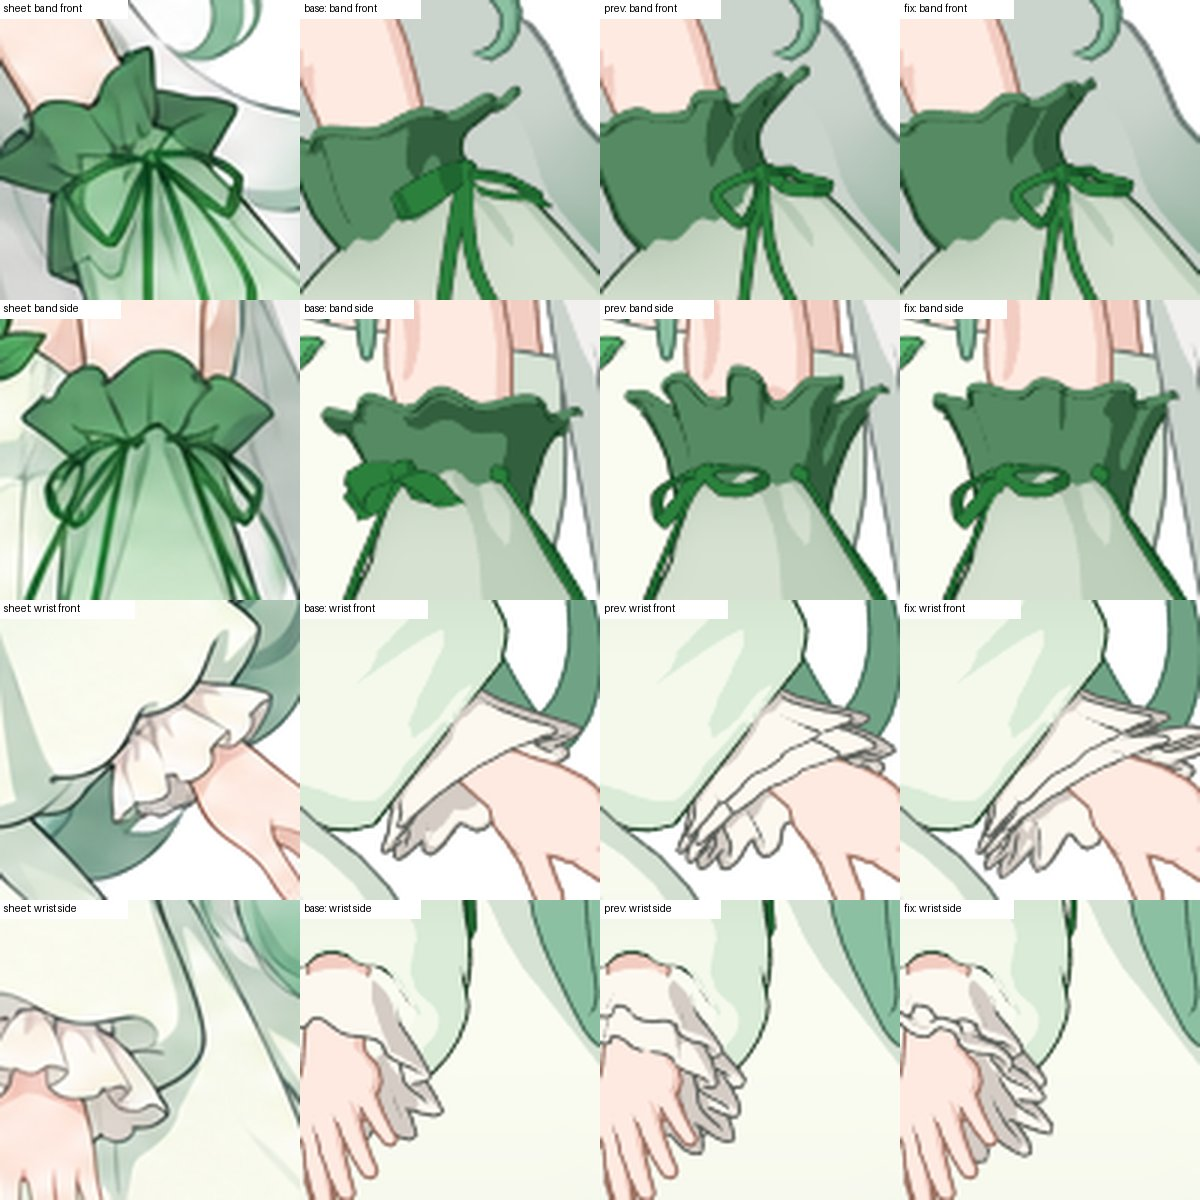
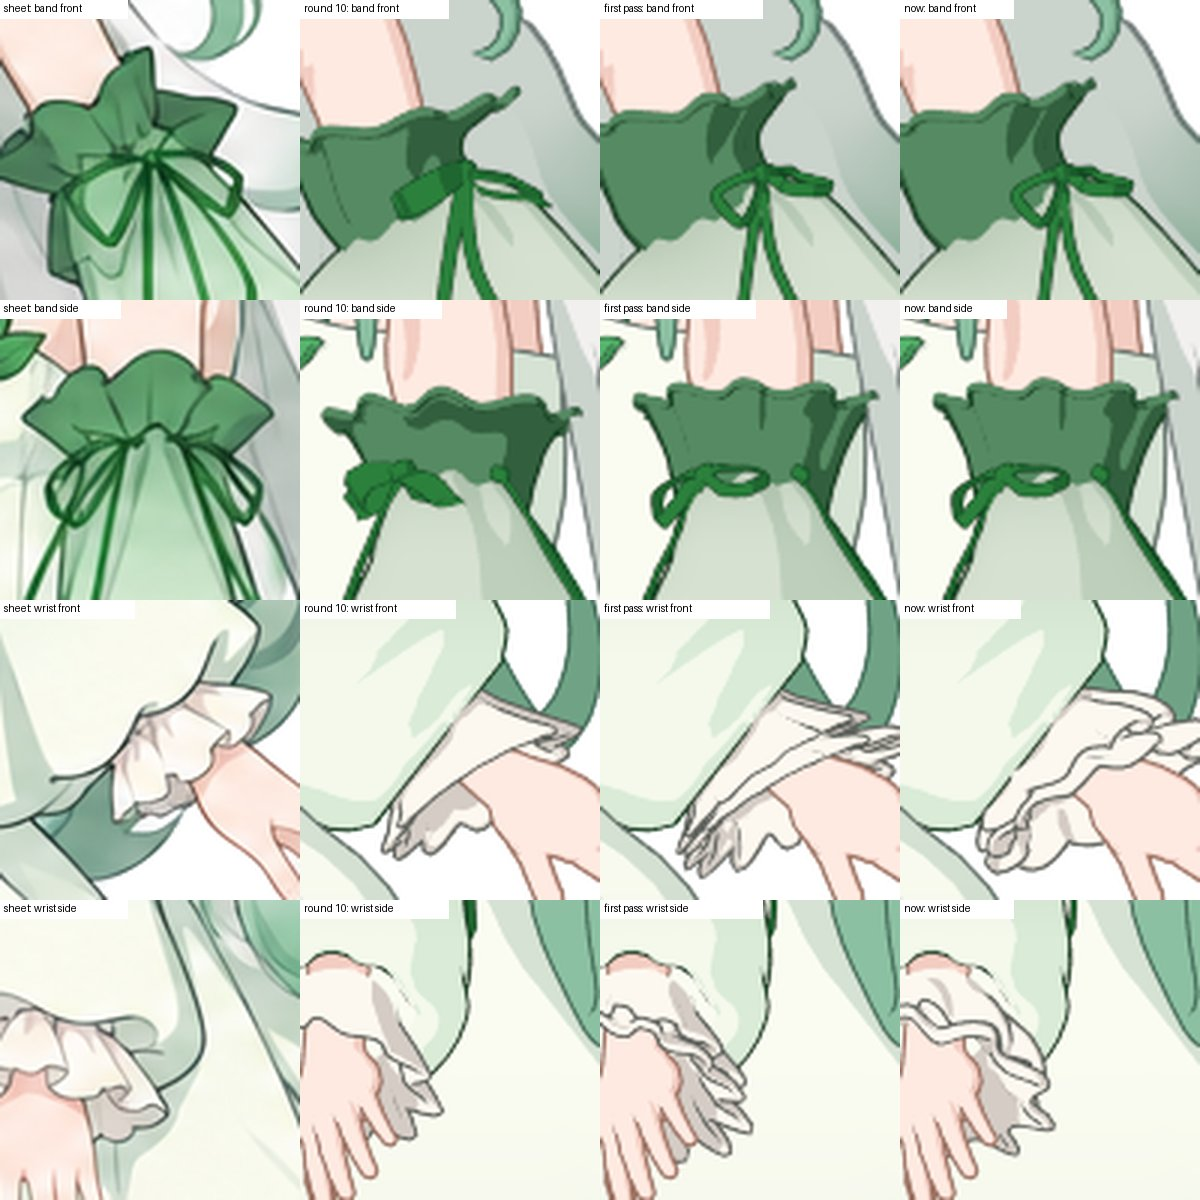
docs: r11 sleeves HD review fix of the wrist ruffle, 4x before/after crops, panels and numbers

diff --git a/docs/pr/r11-sleeves/README.md b/docs/pr/r11-sleeves/README.md
@@ -5,15 +5,15 @@ Files changed:
 - `levi/rig.py`: a small shared hook, see "Rig fits".
 
 Face counts:
-- Sleeves: 8,664 → 16,952 (budget 18,000).
-- Model: 107,968 → 116,256.
+- Sleeves: 8,664 → 17,032 (budget 18,000).
+- Model: 107,968 → 116,336.
 
 The source is the clothes-detail review (round 11 analysis). It found three problems:
 - The band bow read as a green brick of slab loops.
 - The band frill read as a low cup.
 - The wrist ruffle read as a thin grey collar from the front and as an 11-point star end-on.
 
-A first pass fixed the construction. An independent review then found that it had moved the rig and added kinks, outline breaks and a cuff that lay on the hand. This version fixes those findings.
+A first pass fixed the construction. An independent review then found that it had moved the rig and added kinks, outline breaks and a cuff that lay on the hand; a second pass fixed those. The owner then looked at the dressed model at 4× and found that from the front the wrist ruffle read as a fan of sharp triangular shards, worst in clay (HD review, p1). This version rebuilds the ruffle's shape for that (see "HD review: the wrist ruffle").
 
 ## What the part does now
 
@@ -38,32 +38,53 @@ A first pass fixed the construction. An independent review then found that it ha
 - The flutes have rounded crests (`RUFFLE_ROUND` 0.5).
 - The rise along the frill is now a plain wave of the *slid* angle (`_frill_ring`):
   - Before, it was computed at the unslid angle, so the whole rise crowded into the steep flanks. The rim stood in square steps (a crown in the side view) with an S-hook in the rolled rim.
-  - The rim's largest turn at one vertex is now 33° (round 10: 44°, previous: 65°). The 90th percentile is 24° (37° / 41°).
-  - The rim's height range is 6.6 mm (round 10: 7.0, previous: 12.5). The side view shows round tulip petals.
+  - The rim's largest turn at one vertex is now 33° (round 10: 44°, first pass: 65°). The 90th percentile is 24° (37° / 41°).
+  - The rim's height range is 6.6 mm (round 10: 7.0, first pass: 12.5). The side view shows round tulip petals.
 - Outer side (`RUFFLE_OUTER_FLAT` 0.7): the flutes' depth, rise and curl are reduced toward the rim, not just the radius. The front view now sees one broad rise there, instead of three stacked blade-like fins.
 - Inner side (`RUFFLE_INNER_FLAT`): the flutes lie flatter against the chest. At rest no frill vertex is inside the body; the closest is 6.1 mm away.
 - Shading uses the normals of a copy with the flutes 45% as deep.
 - The shape-master girth is sampled as before.
 
 **Wrist ruffle (`_cuff_rings`, `CUFF_TIERS`)**
-- Two tiers:
-  - `sleeve_cuff` is the upper tier, 22 px long.
-  - `sleeve_cuff_under` is the under tier. It is longer and flares about 2.5 px wider than the upper rim.
-- Each tier is a closed fold with thickness: outer face, rolled rim bead, inner face.
-- 13 flutes shaped as scallops, with round crests and narrower valleys (`CUFF_ROUND` 0.3, `CUFF_PINCH` 1.3). Before, `CUFF_ROUND` 0.6 with even waves gave a cog of flat-topped teeth.
+- Two tiers, each a closed fold with thickness (outer face, rolled rim bead ~3 mm across, inner face):
+  - `sleeve_cuff` is the upper tier, 22.6 px long.
+  - `sleeve_cuff_under` is the under tier, 31.8 px long, about 2 px wider than the upper rim.
+- Both are bells: they open out of the gather and turn to hang along the centre line before the rim.
+- 10 flutes with round crests and narrower valleys (`CUFF_LOBES`, `CUFF_PINCH` 1.3, `CUFF_ROUND` 0.25), about as deep as a semicircle, spiralling 0.14 rad round the cuff from root to rim (`CUFF_TWIST`).
+- The flutes' edges roll (`CUFF_ROLL`): see "HD review" below.
 - Where the upper tier covers the under tier:
   - The under tier is nearly round (`CUFF_UNDER_AMP`) and stays clear of the upper tier's valleys.
-  - Its flutes turn half a flute round there (`CUFF_UNDER_SHIFT`, via `rot` in `_frill_ring`). Below the upper rim they then grow between the upper tier's flutes. End-on this gives a second row of scallops instead of a doubled rim.
+  - Its flutes turn half a flute round there (`CUFF_UNDER_SHIFT`, via `rot` in `_frill_ring`). Below the upper rim they grow between the upper tier's flutes: end-on a second row of scallops, not a doubled rim.
+  - Its edge rolls in step with the upper tier's (`roll_shift`), so both tiers move alike where they overlap.
 - Clearance between the tiers (`_cuff_clearance`, asserted in `build`):
-  - Over the upper rim's last 8 px and past it: at least 1.8 px (2.8 mm) to the nearest point of the upper tier. It measures 2.04 px.
-  - Further in: at least 0.5 px. It measures 1.04 px.
+  - Over the upper rim's last 8 px and past it: at least 1.8 px (2.8 mm) to the nearest point of the upper tier. It measures 2.11 px.
+  - Further in: at least 0.5 px. It measures 1.05 px.
   - No intersecting triangle pairs.
-  - The previous version had 1.4 px at the closest. That is less than the outline hull, so the upper rim's outline broke into white gaps and dark hooks.
 - The under tier's outline is at full width only past the upper rim (`smooth(rim, rim + 3)`). Where the upper tier covers it, the outline is at 35% (`outline_w`, `min_factor`).
-- Clearance from the hand:
-  - On the hand side (`CUFF_UNDER_HAND`), the under tier's free part flares out by up to 5 px, so it stands 5.4 mm off the hand at rest. The previous version was 0.7 mm off.
-  - The upper tier is 10.4 mm off.
-- Tried and dropped: an extra forward and downward tilt of the under tier, so the front view would see the flutes' bellies (review p3). It brought the under tier's inner side within 0.35 px of the upper tier, which breaks the outlines again.
+- Clearance from the hand: on the hand's back, both tiers flare out (`CUFF_HAND`, 3.2 px) and the under tier's free part a further 7 px (`CUFF_UNDER_HAND`), over a sector centred 0.5 rad round toward the back (`CUFF_HAND_AT`), where the hand's back comes closest.
+
+  | | first pass | second pass | now (r11/base hands) | now (r11/integrate, 风堇 hands) |
+  |---|---|---|---|---|
+  | under tier to the hand | 0.7 mm | 5.4 mm | 7.0 mm | 4.4 mm (second pass there: 4.2) |
+  | upper tier to the hand | — | 10.4 mm | 10.9 mm | 10.8 mm (second pass there: 9.3) |
+
+**HD review: the wrist ruffle (owner, 4× renders)**
+- Problem: "from the front the frill reads as a fan of sharp triangular shards, worst in clay; from the side it looks like a normal ruffle". The lobes were flat pointed blades seen edge-on, with knife tips and straight edges radiating from the cuff.
+- Diagnosis, on 4× crops of the owner's views plus per-object id, wire and clay close-ups:
+  - Each tier flared like a lampshade, its radius still growing at the rim, so the free part fanned out flat.
+  - 13 deep flutes (peak to valley about 2/3 of a flute's width) ran as straight radial troughs from root to rim.
+  - The crests rose along the axis in step with their radial push (`CUFF_LIFT` 1.6). The front view looks across the hanging forearm, i.e. side-on to the ruffle. There a flute's rim projected onto one straight segment, which met the straight crest line in a point: one knife tip per flute near the silhouette, in both tiers (the comb under the wrist is the under tier).
+  - The flutes shaded with a fluteless cone's normals (`CUFF_SHADE` 0.2, `CUFF_SOFT` 0). In clay they showed as flat cut-outs with jagged outlines.
+  - End-on (arms_up, arms_forward, reach_forward) the same flutes made a 13-tooth cog.
+- Fix (`levi/parts/sleeves.py` only):
+  - Bell profiles: each tier opens out of the gather and hangs along the centre line before a rounder rim bead (`CUFF_TIERS`).
+  - 10 flutes instead of 13 (`CUFF_LOBES`, `CUFF_N` 120 = 12 per flute), at full depth from d = 17 px (`CUFF_AMP_D`), turning 0.14 rad round the cuff (`CUFF_TWIST`), so no crest or valley is a straight radial line.
+  - The rise is a quarter wave out of step with the flutes (`_frill_ring(roll=...)`, `CUFF_ROLL` 1.8 px, `CUFF_LIFT` 0.3). Each flute's edge leans like a rolling wave: side-on it projects onto a round loop, not a segment ending in a point.
+  - The flutes shade with 55% of their own normal, the rest from a copy with half-depth flutes (`CUFF_SHADE` 0.55, `CUFF_SOFT` 0.5): the bellies read round in clay and cel.
+  - Tried: a stronger roll (2.5 px). The loops were a little rounder but the tier gap dropped to 1.94 px and the hand clearance to 4.1 mm; kept 1.8.
+- Result (`cuff_hd.jpg`): from the front, from above, from the back and end-on in arms_up / arms_forward / reach_forward the ruffle reads as rolled, gathered cloth, and the lobe ends read as round loops in cel and clay. The shards, the comb under the wrist and the cog are gone. The side view still reads as a ruffle.
+- Remaining: a few lobes seen exactly edge-on at the silhouette (3/4 back-left at rest, reach_forward from the side) end in a rounded point rather than a full loop.
+- Faces: the cuff went 6,400 → 6,480 (two more rings on the upper tier; 120 instead of 128 points per ring).
 
 **Rig fits (`rig.RIG_FIT_PROP`, `rig._fit_verts`; `sleeves.RIG_FIT_SHARE`)**
 - Two rig fits read the sleeves' vertices:
@@ -77,32 +98,32 @@ A first pass fixed the construction. An independent review then found that it ha
   - The chain joints move 2–3 cm.
 - The fix: an object property `levi_rig_fit` gives the share of its vertices that these fits sample, as an even, deterministic thinning. The sleeves set:
 
-  | object | share |
-  |---|---|
-  | `sleeve_ruffle` | 0.5 |
-  | `sleeve_cuff` | 0.625 |
-  | `sleeve_ribbon` | 0.5 |
-  | `sleeve_cuff_under` | 0 (left out) |
+  | object | share (second pass) | share (now) |
+  |---|---|---|
+  | `sleeve_ruffle` | 0.5 | 0.5 |
+  | `sleeve_cuff` | 0.625 | 1/3 |
+  | `sleeve_ribbon` | 0.5 | 0.5 |
+  | `sleeve_cuff_under` | 0 (left out) | 0.1 |
 
-  These are about round 10's densities. Each share's period divides each half's vertex count, so both sides thin alike.
+  These are about round 10's densities. Each share's period divides each half's vertex count, so both sides thin alike. The HD fix's bell-shaped tiers keep more of their vertices more than 5 cm off the arm bones; at the second pass's shares they put the drape root 8.2 mm down the forearm from round 10's (joints 6.4 / 3.3 mm off), so the shares were refitted with an offline replica of the fit (checked against the built rig).
 - Results against round 10:
 
-  | | round 10 | previous | now |
-  |---|---|---|---|
-  | `袖_0.L` root | (0.2202, −0.0313, 0.9103) | (0.2369, −0.032, 0.8951) | (0.2227, −0.0314, 0.9080), 3.4 mm off round 10 |
-  | joint 1 | (0.2407, −0.0363, 0.8340) | — | (0.2416, −0.0352, 0.8339), 1.4 mm off |
-  | joint 2 | (0.2913, −0.0370, 0.7746) | — | (0.2883, −0.0355, 0.7772), 4.2 mm off |
+  | | round 10 | first pass | second pass | now |
+  |---|---|---|---|---|
+  | `袖_0.L` root | (0.2202, −0.0313, 0.9103) | (0.2369, −0.032, 0.8951) | 3.4 mm off | (0.2217, −0.0314, 0.9090), 2.0 mm off |
+  | joint 1 | (0.2407, −0.0363, 0.8340) | — | 1.4 mm off | (0.2424, −0.0336, 0.8331), 3.3 mm off |
+  | joint 2 | (0.2913, −0.0370, 0.7746) | — | 4.2 mm off | (0.2893, −0.0354, 0.7762), 3.0 mm off |
 
-  | capsule | round 10 | previous | now |
-  |---|---|---|---|
-  | shoulder | r 5.1, 0.0–8.6 cm | r 5.1, 2.1–9.0 | r 5.0, 0.0–9.0 |
-  | upper arm | r 4.5, 4.4–15.9 | r 4.3, 6.8–15.1 | r 4.3, 5.1–15.7 |
-  | forearm | r 5.2 | r 4.9 | r 5.2 |
-  | hand | r 2.4, 0.8–6.0 | r 2.9, 0.1–6.0 | r 2.2, 0.8–6.0 |
+  | capsule | round 10 | first pass | second pass | now |
+  |---|---|---|---|---|
+  | shoulder | r 5.1, 0.0–8.6 cm | r 5.1, 2.1–9.0 | r 5.0, 0.0–9.0 | r 5.0, 0.0–9.0 |
+  | upper arm | r 4.5, 4.4–15.9 | r 4.3, 6.8–15.1 | r 4.3, 5.1–15.7 | r 4.3, 5.1–15.7 |
+  | forearm | r 5.2 | r 4.9 | r 5.2 | r 5.3, 0.0–20.9 |
+  | hand | r 2.4, 0.8–6.0 | r 2.9, 0.1–6.0 | r 2.2, 0.8–6.0 | r 2.3, 0.8–6.0 |
 
-- Elbow skin out through the bag (left arm skin under the bag at rest that ends up outside it in the pose; `rv_poke`):
+- Elbow skin out through the bag (left arm skin under the bag at rest that ends up outside it in the pose; `rv_poke`; measured on the second pass, whose drape chain is within 2 mm of this one's):
 
-  | pose | round 10 | previous | now |
+  | pose | round 10 | first pass | second pass |
   |---|---|---|---|
   | reach_up_back | 8 | 25 | 10 |
   | hands_behind_head | 6 | 14 | 8 |
@@ -115,10 +136,10 @@ A first pass fixed the construction. An independent review then found that it ha
   | object | vertices |
   |---|---|
   | `sleeve_balloon` | 4,128 |
-  | `sleeve_cuff_under` | 4,096 |
   | `sleeve_ruffle` | 4,032 |
+  | `sleeve_cuff_under` | 3,840 |
+  | `sleeve_cuff` | 3,120 |
   | `sleeve_ribbon` | 2,848 |
-  | `sleeve_cuff` | 2,816 |
 
 - Every sleeve object carries `levi_sleeve_s` and `levi_sleeve_param`.
 - The ribbon keeps `levi_sleeve_tails`.
@@ -128,53 +149,47 @@ A first pass fixed the construction. An independent review then found that it ha
 
 ### Gates
 - `tools/check.py`: CHECK OK.
-- `tools/rig_check.py`: RIG CHECK OK on all 17 core poses. The worst stretch is unchanged (fist 1.86, squat 1.85). Penetration is within 0.3 mm of round 10:
+- `tools/rig_check.py`: RIG CHECK OK on all 17 core poses. The worst stretch is unchanged (fist 1.86, squat 1.85). Penetration is within 0.1 mm of round 10:
 
-  | pose | round 10 | previous | now |
-  |---|---|---|---|
-  | arms_up | 0.60 cm | 0.73 | 0.62 |
-  | arms_forward | 0.44 cm | 0.58 | 0.47 |
-  | raise_bend | 0.58 cm | 0.63 | 0.59 |
+  | pose | round 10 | first pass | second pass | now |
+  |---|---|---|---|---|
+  | arms_up | 0.60 cm | 0.73 | 0.62 | 0.61 |
+  | arms_forward | 0.44 cm | 0.58 | 0.47 | 0.45 |
+  | raise_bend | 0.58 cm | 0.63 | 0.59 | 0.59 |
 
   Every other pose is identical to round 10.
 
 ### Motion
 Command: `rig_check --quick --no-core --extended --report-core --motion`. The baseline is built from r11/base.
 
-**All parts: 152 major / 332 minor (round 10) → 160 / 326 (previous: 162 / 331).**
-- `hair_curtain_R` is back to round 10's values:
+**All parts: 152 major / 332 minor (round 10) → 160 / 325 (second pass: 160 / 326; first pass: 162 / 331).** The HD fix adds no major and removes none against the second pass.
+- `hair_curtain_R` is at round 10's values (dance_sway pen 3 mm, pen_frac 0; idol_dance 6 mm, 0.007); the first pass had 10 and 12 mm.
+- `look_over_shoulder` hair × garment crossings: 379 → 448 (first pass: 475). Other crossing counts (already major on round 10) moved by under 10%, walk 1,387 → 1,515 the most. These counts rise with the garment triangle count near the hair.
 
-  | pose | pen | pen_frac |
+**Sleeves: 9 major / 70 minor → 16 major / 66 minor (second pass: 16 / 67).**
+- 6 of the 7 majors new against round 10 are `sleeve_cuff_under`, a new object, in the poses where the cuff was already major on round 10, with the hand pressed to the body:
+
+  | pose | under tier pen / pen_frac (second pass → now) | round-10 cuff |
   |---|---|---|
-  | dance_sway | 3 mm | 0 |
-  | idol_dance | 6 mm | 0.007 |
+  | dance_point | 2.85 cm / 0.055 → 2.82 / 0.061 | 2.54 / 0.069 |
+  | hug_self | 3.09 / 0.108 → 3.09 / 0.112 | 2.81 / 0.124 |
+  | idol_dance | 5.28 / 0.150 → 4.95 / 0.145 | 5.35 / 0.162 |
 
-  The previous version had 10 and 12 mm.
-- `look_over_shoulder` hair × garment crossings: 379 → 448 (previous: 475). This count rises with the garment triangle count.
-
-**Sleeves: 9 major / 70 minor → 16 major / 67 minor.**
-- 6 of the 7 new majors are `sleeve_cuff_under`, a new object. They are in the poses where the cuff was already major on round 10, with the hand pressed to the body. Its pen_frac is below the round-10 cuff's in all three poses. Its depth is 1–3 mm deeper in two of them:
-
-  | pose | under tier pen / pen_frac | round-10 cuff |
-  |---|---|---|
-  | dance_point | 2.85 cm / 0.055 | 2.54 / 0.069 |
-  | hug_self | 3.09 / 0.108 | 2.81 / 0.124 |
-  | idol_dance | 5.28 / 0.150 | 5.35 / 0.162 |
-
-- The 7th: `sleeve_cuff` pen_frac in hands_behind_back went 0.026 → 0.046 (depth 1.35 cm, minor).
+- The 7th: `sleeve_cuff` pen_frac in hands_behind_back: round 10 0.026, second pass 0.046, now 0.042 (depth 1.6 cm, minor).
+- The upper cuff in the same poses: dance_point 2.8 → 2.5 cm (pen_frac 0.064 → 0.066), idol_dance 5.4 → 5.3 cm.
 - Flips:
 
-  | pose | balloon (round 10 → previous → now) | ribbon (round 10 → previous → now) |
+  | pose | balloon (round 10 → first pass → now) | ribbon (round 10 → first pass → now) |
   |---|---|---|
   | idol_dance | 52 → 64 → 54 | 28 → 62 → 42 |
-  | reach_up_back | 11 → 18 → 13 | 2 → 13 → 8 |
-  | dance_sway | 14 → 15 → 14 | 8 → 19 → 12 |
+  | reach_up_back | 11 → 18 → 12 | 2 → 13 → 8 |
+  | dance_sway | 14 → 15 → 14 | 8 → 19 → 9 |
 
-  The ribbon rows are minor. The thinner tails fold more readily than round 10's.
+  The ribbon rows are minor (dance_sway now below the minor threshold). The thinner tails fold more readily than round 10's.
 - Frill: seiza pen_frac 0.012 → 0.029 (minor). Everything else is unchanged or lower.
 
 ### Look
-- Silhouette IoU is unchanged: front 0.909, side 0.833, back 0.913.
+- Silhouette IoU is unchanged: front 0.9085, side 0.8331, back 0.9126 (second pass: 0.9125).
 - Green region IoU:
 
   | view | round 10 | now |
@@ -183,6 +198,8 @@ Command: `rig_check --quick --no-core --extended --report-core --motion`. The ba
   | side | 0.306 | 0.321 |
   | back | 0.252 | 0.244 |
 
+- Dress region IoU (the cuff is in it) moved by under 0.002: front 0.7599 → 0.7596, back 0.6297 → 0.6286.
+
 - Shape-master fit for sleeves:
 
   | | round 10 | now |
@@ -190,24 +207,21 @@ Command: `rig_check --quick --no-core --extended --report-core --motion`. The ba
   | target→ours p50 / p90 | 9.4 / 23.7 mm | 9.1 / 23.6 mm |
   | covered | 0.307 | 0.317 |
 
-- Cuff rim turn per vertex: the upper tier's largest is 82° and its 90th percentile 54° (round 10: 77 / 57). These are the scallops' valleys.
 - Remaining and seen:
   - A small dark tick on the frill's rolled rim at one valley, at macro scale. It is shading by the soft normals. Own normals there made a wider dark band.
-  - At panel scale, the front view of the wrist ruffle still reads as flat plates (review p3; see the dropped tilt above).
+  - At panel scale the front view of the wrist ruffle now reads as a soft rolled puff (`panels.jpg`), not the flat plates the second review noted (its p3).
+  - End-on the cuff is 10 round scallops; in cel the valleys between them still show the background through small closed notches, as the sheet's two-tier ruffle does.
 
 ### Not run
 - `export_pmx.py`, `pmx_reimport.py` and `motion_vmd.py`: mmd_tools is not installed on the cluster Blender. The sleeve morphs on the new objects and the PMX physics fit of the sleeve drapes are unverified.
 - No Codex review was run.
 
 ## Images
-- `frill.jpg`: round 10 | previous | this.
+- `frill.jpg`: round 10 | first pass | second pass (the frill is unchanged since).
   - Band side and band front (cel).
   - The rim's outer side (wire).
   - The frill's inner side in arms_up (cel, clay).
-- `cuff.jpg`: round 10 | previous | this.
-  - End-on (cel, clay).
-  - Wrist outer side (cel).
-  - Wrist side (cel, clay).
+- `cuff_hd.jpg`: the HD review fix, before (the owner's state) | after, 4× crops of the dressed model (r11/integrate with this branch): the owner's front crop in cel and clay, the left hand from the front, from 30° above, 3/4 back-left, and arms_up, arms_forward and reach_forward (clay).
 - `rig_fit.jpg`: the elbow inside the bag in dance_sway, reach_up_back and hands_behind_head (3/4 cel crops).
 - `bow.jpg`: the bow from above and from 3/4 (cel).
-- `panels.jpg`: sheet | round 10 | previous | this, at panel scale, enlarged. Rows: band front and side, wrist front and side.
+- `panels.jpg`: sheet | round 10 | first pass | now, at panel scale, enlarged. Rows: band front and side, wrist front and side.
